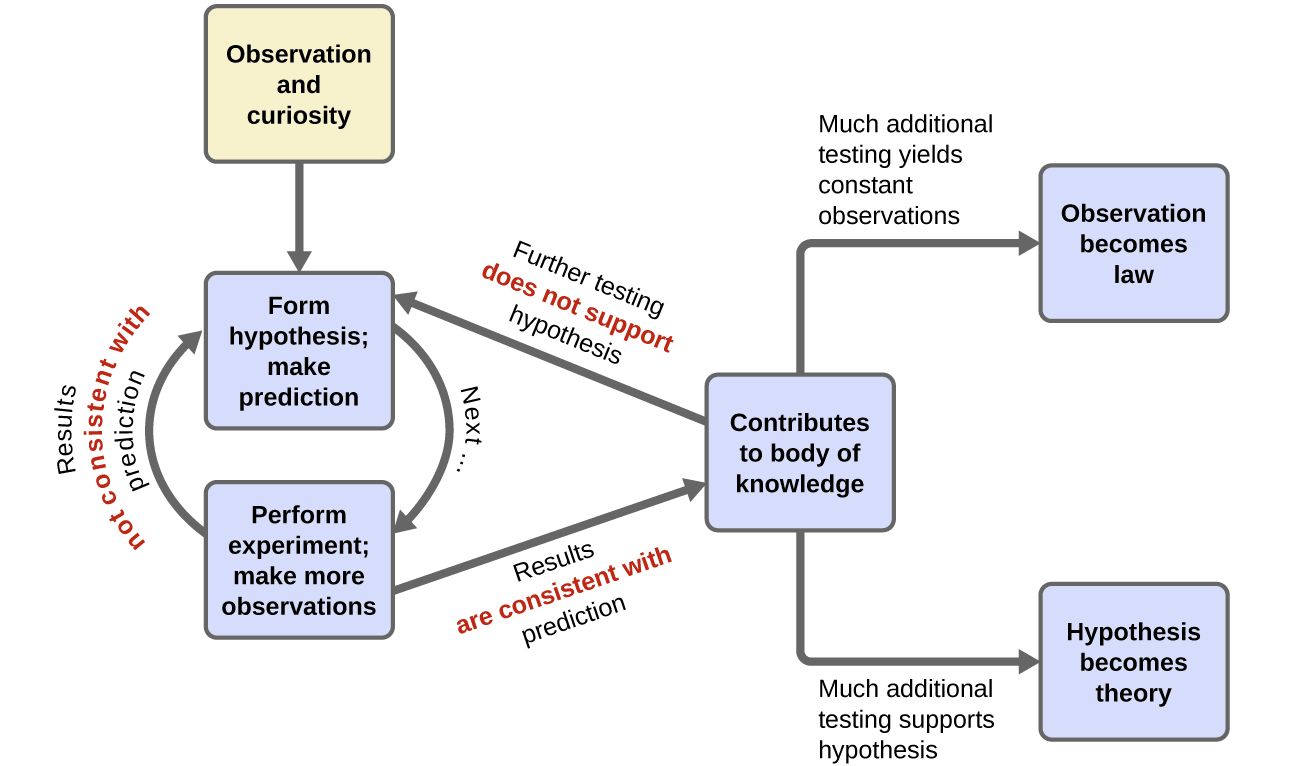
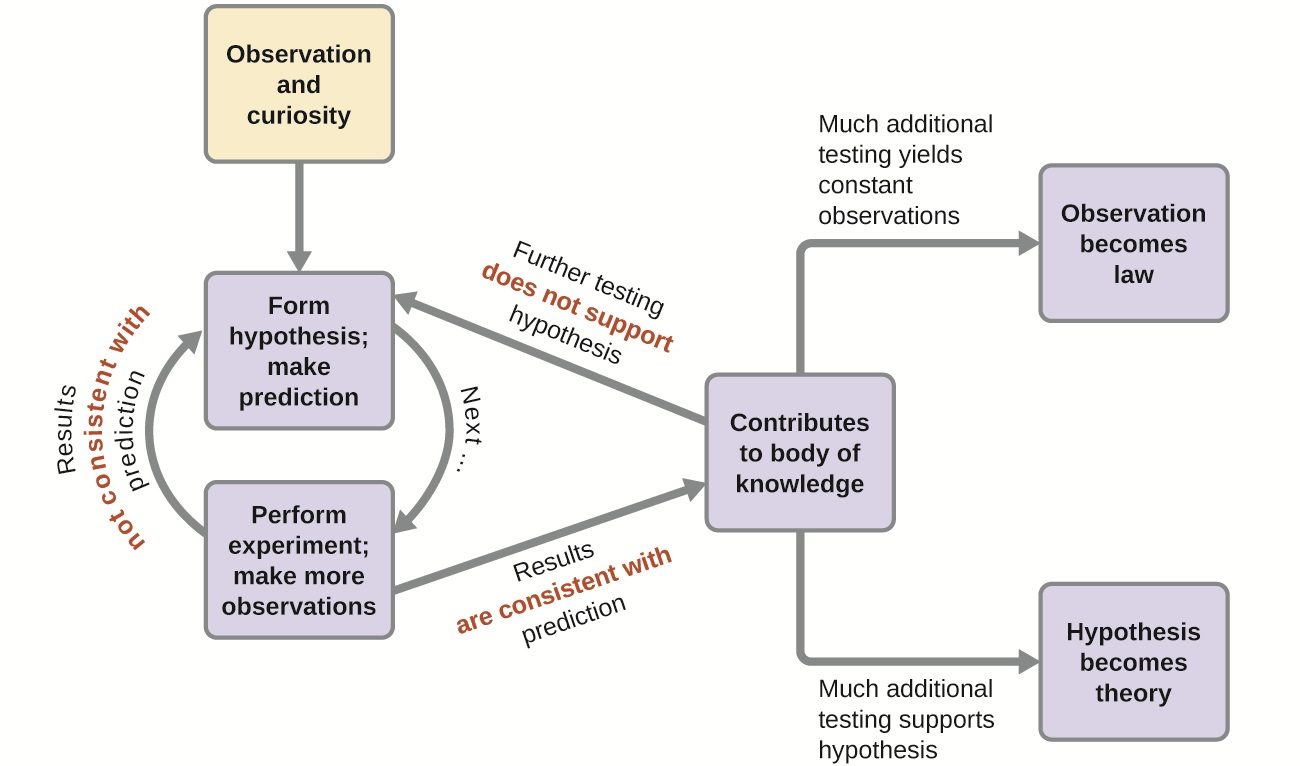
manual editing
Rachel edits text

diff --git a/chapters/01-Introduction-to-Astronomy/01.01-How-Science-Works.html b/chapters/01-Introduction-to-Astronomy/01.01-How-Science-Works.html
@@ -12,7 +12,7 @@
 
 <p class="lt-bio-6967">One thing is common to all forms of science: an ultimate goal to know. Curiosity and inquiry are the driving forces for the development of science. Scientists seek to understand the world and the way it operates. Two methods of logical thinking are used: inductive reasoning and deductive reasoning.</p> 
 
-<p>Inductive reasoning is a form of logical thinking that uses related observations to arrive at a general conclusion. This type of reasoning is common in descriptive science. A life scientist such as a biologist makes observations and records them. These data can be qualitative or quantitative, Qualitative data includes descriptions, and can be subjective, which means two scientists might describe the same thing in different ways. Quantitative data uses numbers and is usually objectives. If two scientists weigh the same rock, they will most likely get the same number. A scientists using inductive reasoning will gather all of their evidence, both qualitative and quantitative, and make conclusions based on all of the evidence. Inductive reasoning involves formulating generalizations based on careful observation and the analysis of a large amount of data. Brain studies often work this way. Many brains are observed while people are doing a task. The part of the brain that lights up, indicating activity, is then demonstrated to be the part controlling the response to that task.</p>
+<p>Inductive reasoning is a form of logical thinking that uses related observations to arrive at a general conclusion. This type of reasoning is common in descriptive science. A life scientist such as a biologist makes observations and records them. These data can be qualitative or quantitative, Qualitative data includes descriptions, and can be subjective, which means two scientists might describe the same thing in different ways. Quantitative data uses numbers and is usually objectives. If two scientists weigh the same rock, they will most likely get the same number. A scientists using inductive reasoning will gather all of their evidence, both qualitative and quantitative, and make conclusions based on all of the evidence. Inductive reasoning involves formulating generalizations based on careful observation and the analysis of a large amount of data.</p>
 
 <p class="lt-bio-6967">Deductive reasoning or deduction is the type of logic used in hypothesis-based science. In deductive reasoning, the pattern of thinking moves in the opposite direction as compared to inductive reasoning. Deductive reasoning is a form of logical thinking that uses a general principle or law to forecast specific results. From those general principles, a scientist can predict the specific results that would be valid as long as the general principles are valid. For example, a prediction would be that if someone threw a ball off of a tower, that it would fall to the ground. Most people would be able to make this prediction based on their life experience. Scientific prediction makes more complicated predictions based on past observations, such as predicting the position of an undetectable source of gravity.</p>
 
@@ -24,53 +24,43 @@
 
 <p class="lt-phys-46139">Consider an example. Let us say that you try to turn on a car, but it will not start. You probably wonder: Why will the car not start? You can follow a scientific method to answer this question. First off, you might try to find some information about reasons why a car will not start. Next, you will state a hypothesis. For example, you may believe that the car is not starting because it has no engine oil. To test this, you open the hood of the car and examine the oil level. You observe that the oil is at an acceptable level, and you thus conclude that the oil level is not contributing to your car issue. To troubleshoot the issue further, you may devise a new hypothesis to test and then repeat the process again.</p>
 
-<p> The scientific method is often shown as a flowchart that ends in knowledge. In reality, scientists usually find an answer to their question along with several new questions to pursue. </p>
-
-
-
-
-
-
-
-<h3>Figure</h3>
-
-<p>find simplified figure, and then put this one at the end?? - separate scientific method - one experiement from science general??</p>
-
-<p></p>
+<p> The scientific method is often shown as a flowchart that ends in knowledge. In reality, scientists usually find an answer to their question along with several new questions to pursue. The scientific method is more like a circle, like in Figure \(\PageIndex{1}\), that goes through the six steps 1. make an observation and ask a question, 2. research the topic, 3. form a hypothesis, 4. perform and experiment, 5. analyze the data, 6. and share the results which leads to new observations and questions. The next sections will go into each othese steps in more detail.</p>
 
 <figure><img alt="fig-ch01_patchfile_01.jpg" class="internal default" src="/@api/deki/files/68250/1280px-The_Scientific_Method.jpg" />
-<figcaption>Figure \(\PageIndex{1}\): Copy and Paste Caption here. (<a href="https://commons.wikimedia.org/wiki/File:The_Scientific_Method.svg" title="https://commons.wikimedia.org/wiki/File:The_Scientific_Method.svg">Copyright; author via source</a>)</figcaption>
+<figcaption>Figure \(\PageIndex{1}\): The Scientific Method. The scientific method is a repeating loop of six stepsthat leads to scientific discovery. (<a href="https://commons.wikimedia.org/wiki/File:The_Scientific_Method.svg" title="https://commons.wikimedia.org/wiki/File:The_Scientific_Method.svg">Copyright; author via source</a>)</figcaption>
 </figure>
 
-<p></p>
+<h3 class="lt-geo-2488">Observation/Question</h3>
 
-<figure><img alt="In this flowchart, the observation and curiosity box has an arrow pointing to a box labeled form hypothesis; make prediction. A curved arrow labeled next connects this box to a box labeled perform experiment; make more observations. Another arrow points back to the box that says form hypothesis; make prediction. This arrow is labeled results not consistent with prediction. Another arrow, labeled results are consistent with prediction points from the perform experiment box to a box labeled contributes to body of knowledge. However, an arrow also points from contributes to body of knowledge back to the form hypothesis; make prediction box. This arrow is labeled further testing does not support hypothesis. There are also two other arrows leading out from contributes to body of knowledge. One arrow is labeled much additional testing yields constant observations. This leads to the observation becomes law box. The other arrow is labeled much additional testing supports hypothesis. This arrow leads to the hypothesis becomes theory box." data-media-type="image/jpeg" height="504px" src="/@api/deki/files/65020/b8e3b2a7a6ecdd381b3d2d6bea9cf9462eff3df4" style="width: 855px; height: 504px;" width="855px" />
-<figcaption>Figure \(\PageIndex{3}\): The scientific method follows a process similar to the one shown in this diagram. All the key components are shown, in roughly the right order. Scientific progress is seldom neat and clean: It requires open inquiry and the reworking of questions and ideas in response to findings.</figcaption>
-</figure>
+<p class="lt-bio-6967">The scientific process typically starts with an observation, often a problem to be solved, that leads to a question. Let's use an astronomy observation as an example. Imagine that we are an astronomers in the early 1900s. You collect some light from the Sun, making an observation, and notice that there are some strange gaps in the light. You might wonder: What are these strange gaps in the light from the Sun? Now it's time to do a little research and learn a more about the Sun and light.</p>
+<h3>Research</h3>
 
-<h3>Observation/Question</h3>
-
-<p class="lt-bio-6967">The scientific process typically starts with an observation (often a problem to be solved) that leads to a question. Let’s think about a simple problem that starts with an observation and apply the scientific method to solve the problem. One Monday morning, a student arrives at class and quickly discovers that the classroom is too warm. That is an observation that also describes a problem: the classroom is too warm. The student then asks a question: “Why is the classroom so warm?”</p>
-
-<p class="lt-geo-2488">Asking a question is one really good way to begin to learn about the natural world. You might have seen something that makes you curious. You might want to know what to change to produce a better result. Let’s say a farmer is having an erosion problem. She wants to keep more soil on her farm. The farmer learns that a farming method called “no-till farming” allows farmers to plant seeds without plowing the land. She wonders if planting seeds without plowing will reduce the erosion problem and help keep more soil on her farmland. Her question is this: “Will using the no-till method of farming help me to lose less soil on my farm?” (figure 2).</p>
+<p> Sometimes when you ask a question about something you see in the world, you can just look up the answer. Right now, astronomers know exactly why your observations look the way they do, and more importantly, what the data means about the Sun. However, in our example the scientific community in the early 1900s didn't have the answers. Trying to learn more about the Sun and its light, you do some research using trusted sources of information, such as research papers published by other astronomers. You read some research papers that talk about observations of stars that have weird gaps in their light, and other papers about similar gaps in light that moves through a gas in laboratory experiments.</p>
 
 <h3>Hypothesis</h3>
 
-<p class="lt-chem-414594">Some routes involve a hypothesis, a tentative explanation of observations that acts as a guide for gathering and checking information. A hypothesis is tested by experimentation, calculation, and/or comparison with the experiments of others and then refined as needed.</p>
+<p class="lt-geo-2488">After doing the research, a scientist will try to answer the question. In our example, you wanted to know why your observation of the Sun had gaps in its light. You learned that stars also have gaps in their light and that light that passes through a gas in the lab also has gaps. You might think that the Sun and other stars are made of a gas. That is your hypothesis.</p>
+
+<p>A hypothesis is a reasonable explanation of the observations that is testable. It would be unreasonable to consider the observations of the Sun and your research and propose that the Sun was made of lava, because there was nothing in your observations or research that suggested lava. Testing a hypothesis involves making a prediction. A prediction is similar to a hypothesis but it typically has the format “If . . . then . . . .” For example, the prediction for your hypothesis, “If the student turns on the air conditioning, then the classroom will no longer be too warm.”
+</p>
+    
+    This answer to her question is a hypothesis.  A hypothesis can be tested. It may be the right answer, it may be a wrong answer, but it must be testable. Once she has a hypothesis, the next step is to do experiments to test the hypothesis. A hypothesis can be proved or disproved by testing. If a hypothesis is repeatedly tested and shown to be true, then scientists call it a theory.</p>
+
+
+<p> You have access to a lab where you can collect light moving through two different types of gas, neon and argon. You analyze your experimental results by comparing them to observations of the Sun. Unfortunately, the gaps don't match up. The bad news is that you don't know what the Sun is made of. The good news is that you know it is not made of Neon and Argon. You share your results with other people that are interested in the composition of the Sun. One of them asks if you have tried hydrogen or helium. And you start with a new question: is the Sun made of hydrogen or helium?</p>
+
+<p class="lt-chem-414594">A hypothesis is tested by experimentation, calculation, and/or comparison with the experiments of others and then refined as needed.</p>
 
 <p class="lt-bio-6967">Recall that a hypothesis is a suggested explanation that can be tested. To solve a problem, several hypotheses may be proposed. For example, one hypothesis might be, “The classroom is warm because no one turned on the air conditioning.” But there could be other responses to the question, and therefore other hypotheses may be proposed. A second hypothesis might be, “The classroom is warm because there is a power failure, and so the air conditioning doesn’t work.”</p>
 
-<p class="lt-bio-6967">Once a hypothesis has been selected, a prediction may be made. A prediction is similar to a hypothesis but it typically has the format “If . . . then . . . .” For example, the prediction for the first hypothesis might be, “If the student turns on the air conditioning, then the classroom will no longer be too warm.”</p>
 
-<p class="lt-bio-6967">A hypothesis must be testable to ensure that it is valid. For example, a hypothesis that depends on what a bear thinks is not testable, because it can never be known what a bear thinks. It should also be falsifiable, meaning that it can be disproven by experimental results. An example of an unfalsifiable hypothesis is “Botticelli’s Birth of Venus is beautiful.” There is no experiment that might show this statement to be false. To test a hypothesis, a researcher will conduct one or more experiments designed to eliminate one or more of the hypotheses. This is important. A hypothesis can be disproven, or eliminated, but it can never be proven. Science does not deal in proofs like mathematics. If an experiment fails to disprove a hypothesis, then we find support for that explanation, but this is not to say that down the road a better explanation will not be found, or a more carefully designed experiment will be found to falsify the hypothesis.</p>
+<p class="lt-bio-6967"> For example, a hypothesis that depends on what a bear thinks is not testable, because it can never be known what a bear thinks. It should also be falsifiable, meaning that it can be disproven by experimental results. An example of an unfalsifiable hypothesis is “Botticelli’s Birth of Venus is beautiful.” There is no experiment that might show this statement to be false. To test a hypothesis, a researcher will conduct one or more experiments designed to eliminate one or more of the hypotheses. This is important. A hypothesis can be disproven, or eliminated, but it can never be proven. Science does not deal in proofs like mathematics. If an experiment fails to disprove a hypothesis, then we find support for that explanation, but this is not to say that down the road a better explanation will not be found, or a more carefully designed experiment will be found to falsify the hypothesis.</p>
 
-<p class="lt-geo-2488">After doing the research, the farmer will try to answer the question. She might think, “If I don’t plow my fields, I will lose less soil than if I do plow the fields. Plowing disrupts the soil and breaks up roots that help hold soil in place.” This answer to her question is a hypothesis. A hypothesis is a reasonable explanation. A hypothesis can be tested. It may be the right answer, it may be a wrong answer, but it must be testable. Once she has a hypothesis, the next step is to do experiments to test the hypothesis. A hypothesis can be proved or disproved by testing. If a hypothesis is repeatedly tested and shown to be true, then scientists call it a theory.</p>
+
 
 <p class="lt-phys-64643">This last point is crucial: a hypothesis must be a proposed explanation that can be tested. The most straightforward approach to such testing in science is to perform an experiment. If the experiment is conducted properly, its results either will agree with the predictions of the hypothesis or they will contradict it. If the experimental result is truly inconsistent with the hypothesis, a scientist must discard the hypothesis and try to develop an alternative. If the experimental result agrees with predictions, this does not necessarily prove that the hypothesis is absolutely correct; perhaps later experiments will contradict crucial parts of the hypothesis. But, the more experiments that agree with the hypothesis, the more likely we are to accept the hypothesis as a useful description of nature.</p>
 
-<h3>Research</h3>
 
-<p class="lt-geo-2488">Need to gather information to set up and experiments - also, sometimes can't do an experiment. Asking a question is one really good way to begin to learn about the natural world. You might have seen something that makes you curious. You might want to know what to change to produce a better result. Let’s say a farmer is having an erosion problem. She wants to keep more soil on her farm. The farmer learns that a farming method called “no-till farming” allows farmers to plant seeds without plowing the land. She wonders if planting seeds without plowing will reduce the erosion problem and help keep more soil on her farmland. Her question is this: “Will using the no-till method of farming help me to lose less soil on my farm?”</p>
 
 <h3>Experiment</h3>
 
@@ -91,6 +81,14 @@
 <p class="lt-geo-2488">The scientist must next form a conclusion. The scientist must study all of the data. What statement best explains the data? Did the experiment prove the hypothesis? Sometimes an experiment shows that a hypothesis is correct. Other times the data disproves the hypothesis. Sometimes it’s not possible to tell. If there is no conclusion, the scientist may test the hypothesis again. This time he will use some different experiments. No matter what the experiment shows the scientist has learned something. Even a disproved hypothesis can lead to new questions.</p>
 
 <p class="lt-geo-2488">The farmer grows crops on the two fields for a season. She finds that 2.2 times as much soil was lost on the plowed field as compared to the unplowed field. She concludes that her hypothesis was correct. The farmer also notices some other differences in the two plots. The plants in the no-till plots are taller. The soil moisture seems higher. She decides to repeat the experiment. This time she will measure soil moisture, plant growth, and the total amount of water the plants consume. From now on she will use no-till methods of farming. She will also research other factors that may reduce soil erosion.</p>
+
+<h2 class="lt-bio-6967">Reporting Scientific Work</h2>
+
+<p class="lt-bio-6967">Whether scientific research is basic science or applied science, scientists must share their findings for other researchers to expand and build upon their discoveries. Communication and collaboration within and between sub disciplines of science are key to the advancement of knowledge in science. For this reason, an important aspect of a scientist’s work is disseminating results and communicating with peers. Scientists can share results by presenting them at a scientific meeting or conference, but this approach can reach only the limited few who are present. Instead, most scientists present their results in peer-reviewed articles that are published in scientific journals. Peer-reviewed articles are scientific papers that are reviewed, usually anonymously by a scientist’s colleagues, or peers. These colleagues are qualified individuals, often experts in the same research area, who judge whether or not the scientist’s work is suitable for publication. The process of peer review helps to ensure that the research described in a scientific paper or grant proposal is original, significant, logical, and thorough. Grant proposals, which are requests for research funding, are also subject to peer review. Scientists publish their work so other scientists can reproduce their experiments under similar or different conditions to expand on the findings. The experimental results must be consistent with the findings of other scientists.</p>
+
+<p class="lt-bio-6967">There are many journals and the popular press that do not use a peer-review system. A large number of online open-access journals, journals with articles available without cost, are now available many of which use rigorous peer-review systems, but some of which do not. Results of any studies published in these forums without peer review are not reliable and should not form the basis for other scientific work. In one exception, journals may allow a researcher to cite a personal communication from another researcher about unpublished results with the cited author’s permission.</p>
+
+<p class="lt-phys-64643">This self-correcting aspect of science sets it off from most human activities. Scientists spend a great deal of time questioning and challenging one another, which is why applications for project funding—as well as reports for publication in academic journals—go through an extensive process of peer review, which is a careful examination by other scientists in the same field. In science (after formal education and training), everyone is encouraged to improve upon experiments and to challenge any and all hypotheses. New scientists know that one of the best ways to advance their careers is to find a weakness in our current understanding of something and to correct it with a new or modified hypothesis.</p>
 
 <h3>Models</h3>
 
@@ -136,15 +134,13 @@
 
 <p class="lt-phys-64644">Note that without the existence of such universal laws, we could not make much headway in astronomy. If each pocket of the universe had different rules, we would have little chance of interpreting what happened in other “neighborhoods.” But, the consistency of the laws of nature gives us enormous power to understand distant objects without traveling to them and learning the local laws. In the same way, if every region of a country had completely different laws, it would be very difficult to carry out commerce or even to understand the behavior of people in those different regions. A consistent set of laws, though, allows us to apply what we learn or practice in one state to any other state.</p>
 
-<h2 class="lt-bio-6967">Reporting Scientific Work</h2>
 
-<p class="lt-bio-6967">Whether scientific research is basic science or applied science, scientists must share their findings for other researchers to expand and build upon their discoveries. Communication and collaboration within and between sub disciplines of science are key to the advancement of knowledge in science. For this reason, an important aspect of a scientist’s work is disseminating results and communicating with peers. Scientists can share results by presenting them at a scientific meeting or conference, but this approach can reach only the limited few who are present. Instead, most scientists present their results in peer-reviewed articles that are published in scientific journals. Peer-reviewed articles are scientific papers that are reviewed, usually anonymously by a scientist’s colleagues, or peers. These colleagues are qualified individuals, often experts in the same research area, who judge whether or not the scientist’s work is suitable for publication. The process of peer review helps to ensure that the research described in a scientific paper or grant proposal is original, significant, logical, and thorough. Grant proposals, which are requests for research funding, are also subject to peer review. Scientists publish their work so other scientists can reproduce their experiments under similar or different conditions to expand on the findings. The experimental results must be consistent with the findings of other scientists.</p>
-
-<p class="lt-bio-6967">There are many journals and the popular press that do not use a peer-review system. A large number of online open-access journals, journals with articles available without cost, are now available many of which use rigorous peer-review systems, but some of which do not. Results of any studies published in these forums without peer review are not reliable and should not form the basis for other scientific work. In one exception, journals may allow a researcher to cite a personal communication from another researcher about unpublished results with the cited author’s permission.</p>
-
-<p class="lt-phys-64643">This self-correcting aspect of science sets it off from most human activities. Scientists spend a great deal of time questioning and challenging one another, which is why applications for project funding—as well as reports for publication in academic journals—go through an extensive process of peer review, which is a careful examination by other scientists in the same field. In science (after formal education and training), everyone is encouraged to improve upon experiments and to challenge any and all hypotheses. New scientists know that one of the best ways to advance their careers is to find a weakness in our current understanding of something and to correct it with a new or modified hypothesis.</p>
 
 <h3>Summary of Scientific Process</h3>
+
+<figure><img alt="In this flowchart, the observation and curiosity box has an arrow pointing to a box labeled form hypothesis; make prediction. A curved arrow labeled next connects this box to a box labeled perform experiment; make more observations. Another arrow points back to the box that says form hypothesis; make prediction. This arrow is labeled results not consistent with prediction. Another arrow, labeled results are consistent with prediction points from the perform experiment box to a box labeled contributes to body of knowledge. However, an arrow also points from contributes to body of knowledge back to the form hypothesis; make prediction box. This arrow is labeled further testing does not support hypothesis. There are also two other arrows leading out from contributes to body of knowledge. One arrow is labeled much additional testing yields constant observations. This leads to the observation becomes law box. The other arrow is labeled much additional testing supports hypothesis. This arrow leads to the hypothesis becomes theory box." data-media-type="image/jpeg" height="504px" src="/@api/deki/files/65020/b8e3b2a7a6ecdd381b3d2d6bea9cf9462eff3df4" style="width: 855px; height: 504px;" width="855px" />
+<figcaption>Figure \(\PageIndex{3}\): The scientific method follows a process similar to the one shown in this diagram. All the key components are shown, in roughly the right order. Scientific progress is seldom neat and clean: It requires open inquiry and the reworking of questions and ideas in response to findings.</figcaption>
+</figure>
 
 <p class="lt-phys-46139">The models, theories, and laws we devise sometimes imply the existence of objects or phenomena as yet unobserved. These predictions are remarkable triumphs and tributes to the power of science. It is the underlying order in the universe that enables scientists to make such spectacular predictions. However, if experiment does not verify our predictions, then the theory or law is wrong, no matter how elegant or convenient it is. Laws can never be known with absolute certainty because it is impossible to perform every imaginable experiment in order to confirm a law in every possible scenario. Physicists operate under the assumption that all scientific laws and theories are valid until a counterexample is observed. If a good-quality, verifiable experiment contradicts a well-established law, then the law must be modified or overthrown completely.</p>
 

diff --git a/sessions/2026-08-22-session03.md b/sessions/2026-08-22-session03.md
@@ -11,7 +11,7 @@ Goal(s) for this session
   - example box - need style file done 
   - exercise box - need style file done 
 - run edit-html on Intro to Astro done
-- manual edit on Intro to Astro
+- manual edit on Intro to Astro began on how science works
 
 ## AI
 1. Claude code gave advice on edit-html skill, see note below
